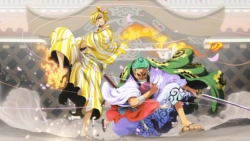
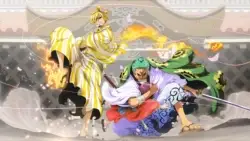
perf(index): optimize gallery images with compression
- Compress elemento-index images (categories): 20 images
- Resize 350px images to 310px for mobile optimization
- Compress personaje-index images (characters): 9 images
- Total savings: 382 KB (66%)

diff --git a/scripts/fix-index-gallery.js b/scripts/fix-index-gallery.js
@@ -1,0 +1,182 @@
+/**
+ * Script para optimizar imágenes de GALERÍA del index
+ *
+ * Galerías identificadas:
+ * 1. elemento-index: Categorías principales (250x141 o 350x197)
+ *    - PC muestra: 205x115
+ *    - Móvil muestra: 308x173
+ *    - Las de 350px son muy grandes, las de 250px están bien
+ *
+ * 2. personaje-index: Personajes destacados (200x356)
+ *    - Solo necesitan compresión
+ */
+
+import sharp from 'sharp';
+import path from 'path';
+import fs from 'fs/promises';
+import { fileURLToPath } from 'url';
+
+const __filename = fileURLToPath(import.meta.url);
+const __dirname = path.dirname(__filename);
+
+const UPLOADS_DIR = path.join(__dirname, '../public/uploads');
+const QUALITY = 65;
+
+// Imágenes de galería elemento-index (categorías)
+const ELEMENTO_INDEX_IMAGES = [
+  '2022/10/anime_parapc.webp',
+  '2022/10/series-peliculas_parapc.webp',
+  '2022/10/videojuegos_parapc.webp',
+  '2022/10/dragon-ball-franchise-wallpaper_resultado_1_parapc.webp',
+  '2022/10/disney_parapc.webp',
+  '2023/02/fondos-aesthetic_wallpapers-video.webp',
+  '2023/08/NARUTO-pequena.webp',
+  '2023/02/fondos-de-paisajes_wallpapers-video.webp',
+  '2023/08/FUTBOL-pequena.webp',
+  '2023/08/ONE-PIECE-pequena.webp',
+  '2023/02/fondos-naturaleza_wallpapers-video.webp',
+  '2023/02/fondos-coches_wallpapers-video.webp',
+  '2023/08/CHAINSAW-MAN-pequena.webp',
+  '2023/08/DEMON-SLAYER-pequena.webp',
+  '2023/08/bts-2-pequena.webp',
+  '2023/08/genshin-impact-1-pequena.webp',
+  '2023/05/superman-10-thumb2.webp',
+  '2023/08/rick-2-pequena.webp',
+  '2023/08/starwars-1-pequena.webp',
+  '2023/08/Zero-Two-pequena.webp'
+];
+
+// Imágenes de galería personaje-index
+const PERSONAJE_INDEX_IMAGES = [
+  '2023/07/goku.webp',
+  '2023/07/vegeta.webp',
+  '2023/07/zoro.webp',
+  '2023/07/gogeta.webp',
+  '2023/07/Nezuko.webp',
+  '2023/07/power.webp',
+  '2023/07/itachi.webp',
+  '2023/07/luffy.webp',
+  '2023/07/sasuke.webp'
+];
+
+// Comprimir imagen usando archivo temporal
+async function compressImage(relativePath, targetWidth = null) {
+  const inputPath = path.join(UPLOADS_DIR, relativePath);
+  const dir = path.dirname(inputPath);
+  const ext = path.extname(inputPath);
+  const base = path.basename(inputPath, ext);
+  const tempPath = path.join(dir, `${base}-temp-compress${ext}`);
+
+  try {
+    const originalStats = await fs.stat(inputPath);
+    const originalBuffer = await fs.readFile(inputPath);
+    const metadata = await sharp(originalBuffer).metadata();
+
+    let pipeline = sharp(originalBuffer);
+
+    // Redimensionar si se especifica y la imagen es más grande
+    if (targetWidth && metadata.width > targetWidth) {
+      pipeline = pipeline.resize(targetWidth, null, { withoutEnlargement: true });
+    }
+
+    // Comprimir
+    await pipeline.webp({ quality: QUALITY }).toFile(tempPath);
+
+    const newStats = await fs.stat(tempPath);
+
+    // Solo reemplazar si es más pequeño
+    if (newStats.size < originalStats.size) {
+      const newBuffer = await fs.readFile(tempPath);
+      await fs.writeFile(inputPath, newBuffer);
+      await fs.unlink(tempPath);
+
+      // Obtener nuevas dimensiones
+      const newMetadata = await sharp(inputPath).metadata();
+
+      return {
+        file: relativePath,
+        before: originalStats.size,
+        after: newStats.size,
+        oldDimensions: `${metadata.width}x${metadata.height}`,
+        newDimensions: `${newMetadata.width}x${newMetadata.height}`,
+        saved: true
+      };
+    } else {
+      await fs.unlink(tempPath);
+      return {
+        file: relativePath,
+        before: originalStats.size,
+        after: originalStats.size,
+        dimensions: `${metadata.width}x${metadata.height}`,
+        saved: false,
+        reason: 'Ya optimizado'
+      };
+    }
+  } catch (error) {
+    try { await fs.unlink(tempPath); } catch {}
+    console.error(`Error procesando ${relativePath}:`, error.message);
+    return { file: relativePath, error: error.message };
+  }
+}
+
+async function main() {
+  console.log('='.repeat(60));
+  console.log('OPTIMIZACIÓN DE IMÁGENES DE GALERÍA - INDEX');
+  console.log('='.repeat(60));
+
+  let totalBefore = 0;
+  let totalAfter = 0;
+
+  // 1. Procesar elemento-index (categorías)
+  // Redimensionar las de 350px a 310px (suficiente para móvil 308px)
+  console.log('\n--- 1. Galería elemento-index (categorías) ---');
+  console.log('Objetivo: redimensionar 350px -> 310px, comprimir con quality 65\n');
+
+  for (const img of ELEMENTO_INDEX_IMAGES) {
+    const result = await compressImage(img, 310);
+    if (!result.error) {
+      totalBefore += result.before;
+      totalAfter += result.after;
+      if (result.saved) {
+        const savings = ((1 - result.after / result.before) * 100).toFixed(0);
+        const dimInfo = result.oldDimensions !== result.newDimensions
+          ? ` [${result.oldDimensions} → ${result.newDimensions}]`
+          : ` [${result.newDimensions}]`;
+        console.log(`✓ ${path.basename(img)}: ${(result.before/1024).toFixed(1)}KB → ${(result.after/1024).toFixed(1)}KB (-${savings}%)${dimInfo}`);
+      } else {
+        console.log(`⏭ ${path.basename(img)}: ${result.reason} [${result.dimensions}]`);
+      }
+    }
+  }
+
+  // 2. Procesar personaje-index (solo compresión, ya son 200px)
+  console.log('\n--- 2. Galería personaje-index (personajes) ---');
+  console.log('Objetivo: solo comprimir con quality 65 (ya son 200x356px)\n');
+
+  for (const img of PERSONAJE_INDEX_IMAGES) {
+    const result = await compressImage(img);
+    if (!result.error) {
+      totalBefore += result.before;
+      totalAfter += result.after;
+      if (result.saved) {
+        const savings = ((1 - result.after / result.before) * 100).toFixed(0);
+        console.log(`✓ ${path.basename(img)}: ${(result.before/1024).toFixed(1)}KB → ${(result.after/1024).toFixed(1)}KB (-${savings}%)`);
+      } else {
+        console.log(`⏭ ${path.basename(img)}: ${result.reason}`);
+      }
+    }
+  }
+
+  // Resumen
+  console.log('\n' + '='.repeat(60));
+  console.log('RESUMEN');
+  console.log('='.repeat(60));
+  console.log(`Imágenes procesadas: ${ELEMENTO_INDEX_IMAGES.length + PERSONAJE_INDEX_IMAGES.length}`);
+  console.log(`Antes: ${(totalBefore / 1024).toFixed(1)} KB`);
+  console.log(`Después: ${(totalAfter / 1024).toFixed(1)} KB`);
+  const savings = totalBefore > 0 ? ((totalBefore - totalAfter) / 1024).toFixed(1) : 0;
+  const percent = totalBefore > 0 ? ((1 - totalAfter/totalBefore) * 100).toFixed(1) : 0;
+  console.log(`Ahorro: ${savings} KB (${percent}%)`);
+}
+
+main().catch(console.error);
